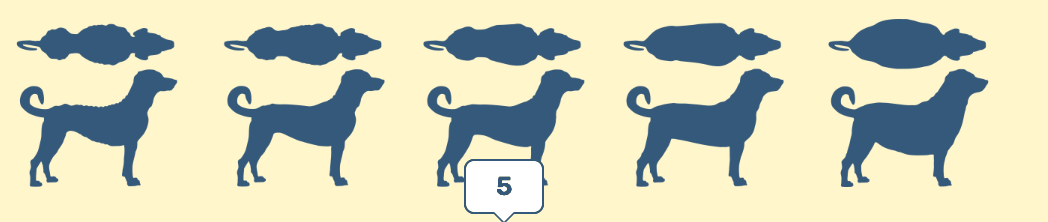
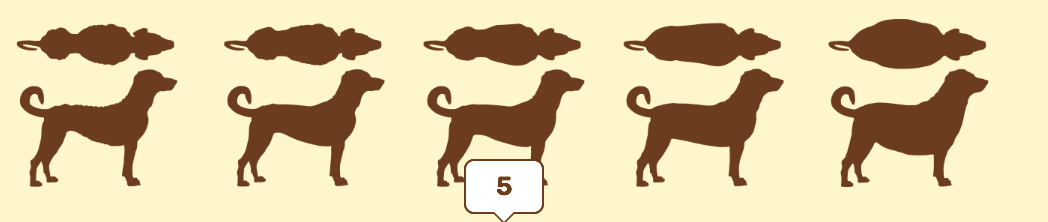
Body score figure: silhouettes recoloured to brown
- Same picture, with the five dog silhouettes changed from blue to the site's brown.
- Background and white callout box unchanged.
- Asset version bumped so browsers reload the picture.

diff --git a/assets/css/style.css b/assets/css/style.css
@@ -36,14 +36,14 @@ h1, h2, h3 { color: var(--blue-dark); line-height: 1.25; font-family: var(--roun
 .site-header { background: var(--yellow); color: var(--ink); border-bottom: 4px solid var(--blue); }
 .site-header .container { display: flex; align-items: center; height: 44px; }
 .brand { text-decoration: none; color: var(--ink); font-weight: 700; font-size: 14px; letter-spacing: .3px; }
-.brand-icon { display: inline-block; width: 24px; height: 20px; margin-right: 6px; vertical-align: middle; background: url("../img/dog-silhouette.svg?v=20261104d") center / contain no-repeat; }
+.brand-icon { display: inline-block; width: 24px; height: 20px; margin-right: 6px; vertical-align: middle; background: url("../img/dog-silhouette.svg?v=20261104e") center / contain no-repeat; }
 
 /* Hero */
 .hero { position: relative; background: var(--yellow); border-bottom: 1px solid var(--yellow-dark); }
 .hero img { width: min(420px, 100%); height: auto; }
 .hero-inner { position: relative; display: flex; align-items: center; justify-content: space-between; gap: 32px; flex-wrap: wrap; padding-top: 40px; padding-bottom: 40px; }
 .hero h1 { margin: 0 0 12px; font-size: clamp(32px, 5vw, 48px); }
-.hero h1::after { content: ""; display: block; width: 120px; height: 38px; margin-top: 12px; background: url("../img/bone.svg?v=20261104d") left center / contain no-repeat; }
+.hero h1::after { content: ""; display: block; width: 120px; height: 38px; margin-top: 12px; background: url("../img/bone.svg?v=20261104e") left center / contain no-repeat; }
 .hero p { margin: 0; max-width: 480px; font-size: 18px; color: var(--ink); }
 .hero h1 { color: var(--ink); }
 
@@ -72,7 +72,7 @@ h1, h2, h3 { color: var(--blue-dark); line-height: 1.25; font-family: var(--roun
 .enquiry-form { background: #fff; border-radius: 10px; padding: 32px; box-shadow: 0 6px 24px rgba(242, 189, 22, .18); border-top: 6px solid var(--yellow); }
 .calc-form h2, .calc-admin h2 { font-size: 22px; margin: 28px 0 16px; }
 .calc-form h2:first-child { margin-top: 0; }
-.calc-form h2::before, .calc-results h2::before { content: ""; display: inline-block; width: 34px; height: 14px; margin-right: 10px; vertical-align: middle; background: url("../img/bone.svg?v=20261104d") center / contain no-repeat; }
+.calc-form h2::before, .calc-results h2::before { content: ""; display: inline-block; width: 34px; height: 14px; margin-right: 10px; vertical-align: middle; background: url("../img/bone.svg?v=20261104e") center / contain no-repeat; }
 .calc-form fieldset { border: 0; padding: 0; margin: 0 0 20px; }
 .field { margin-bottom: 20px; }
 .field-row { display: grid; grid-template-columns: 1fr 1fr; gap: 20px; }

diff --git a/index.html b/index.html
@@ -5,7 +5,7 @@
 <meta name="viewport" content="width=device-width, initial-scale=1">
 <title>MixFeeder Calculator</title>
 <meta name="description" content="Estimate your dog's daily calories and raw or kibble portions. A guide only.">
-<link rel="stylesheet" href="assets/css/style.css?v=20261104d">
+<link rel="stylesheet" href="assets/css/style.css?v=20261104e">
 </head>
 <body>
 <a class="skip-link" href="#main">Skip to content</a>
@@ -21,7 +21,7 @@
       <h1>MixFeeder Calculator</h1>
       <p>Work out your dog's daily calories, and how to split them between kibble and raw food, with a raw recipe in grams.</p>
     </div>
-    <img src="assets/img/dog-sleeping-steak.png?v=20261104d" alt="Cartoon dog asleep with its head on a steak" width="420" height="333">
+    <img src="assets/img/dog-sleeping-steak.png?v=20261104e" alt="Cartoon dog asleep with its head on a steak" width="420" height="333">
   </div>
 </section>
 <section class="section calc">
@@ -54,7 +54,7 @@
         <details class="shape-guide">
           <summary>Not sure which shape? Compare body condition scores</summary>
           <p class="field-hint">Body condition score runs from 1 (very thin) to 5 (heavy). A score of 3 is ideal. Run your hand along the ribs with light pressure, then look at your dog from above and from the side.</p>
-          <img class="waist-figure" src="assets/img/body-scale.png?v=20261104d" alt="Five dogs from very thin to heavy, each shown from above and from the side. The middle dog is marked 5.">
+          <img class="waist-figure" src="assets/img/body-scale.png?v=20261104e" alt="Five dogs from very thin to heavy, each shown from above and from the side. The middle dog is marked 5.">
           <table class="shape-table">
             <caption class="sr-only">Body condition score, how the ribs feel, and the body shape option it matches</caption>
             <thead>
@@ -166,8 +166,8 @@
     <div class="copyright">MixFeeder Calculator. A guide only.</div>
   </div>
 </footer>
-<script src="assets/js/feeding-config.js?v=20261104d"></script>
-<script src="assets/js/calculator-core.js?v=20261104d"></script>
-<script src="assets/js/calculator.js?v=20261104d"></script>
+<script src="assets/js/feeding-config.js?v=20261104e"></script>
+<script src="assets/js/calculator-core.js?v=20261104e"></script>
+<script src="assets/js/calculator.js?v=20261104e"></script>
 </body>
 </html>
